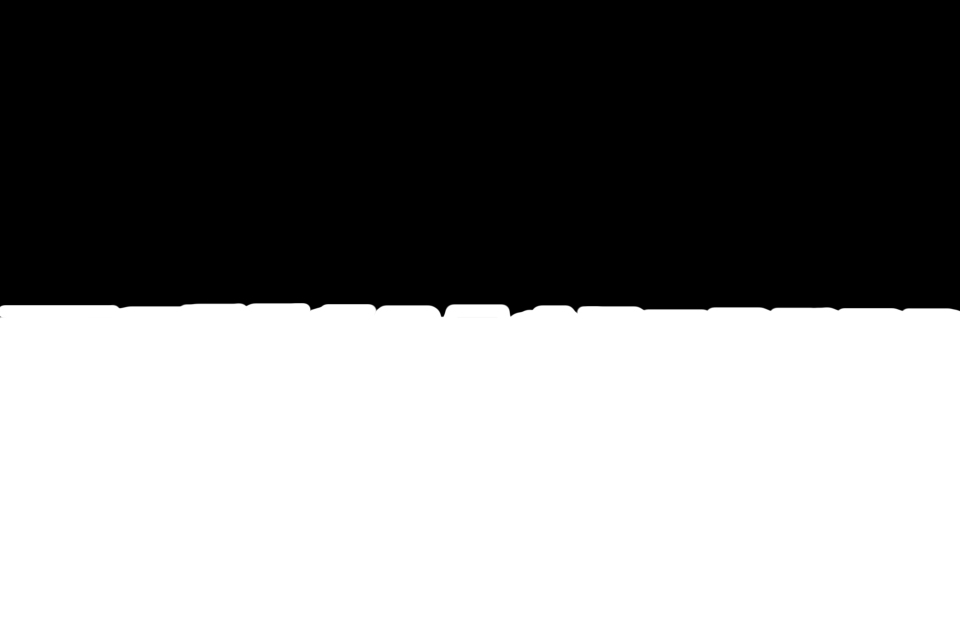
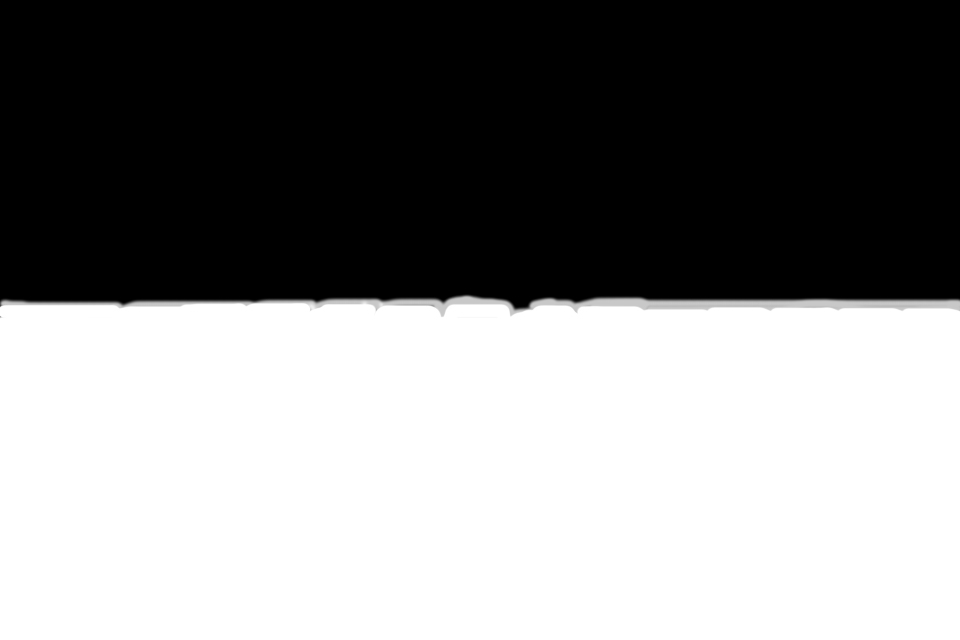
fix 3

Changed region(s): [[0.0, 0.4375, 1.0, 0.5]]

diff --git a/index.html b/index.html
@@ -17,7 +17,7 @@
 	app.stage.addChild(img);
 	
 	
-	depthMap = new PIXI.Sprite.from("img/paisaje-map.jpg");
+	depthMap = new PIXI.Sprite.from("img/paisaje-map2.jpg");
 	depthMap.width=window.innerWidth;
 	depthMap.height=window.innerHeight;
 	app.stage.addChild(depthMap);
